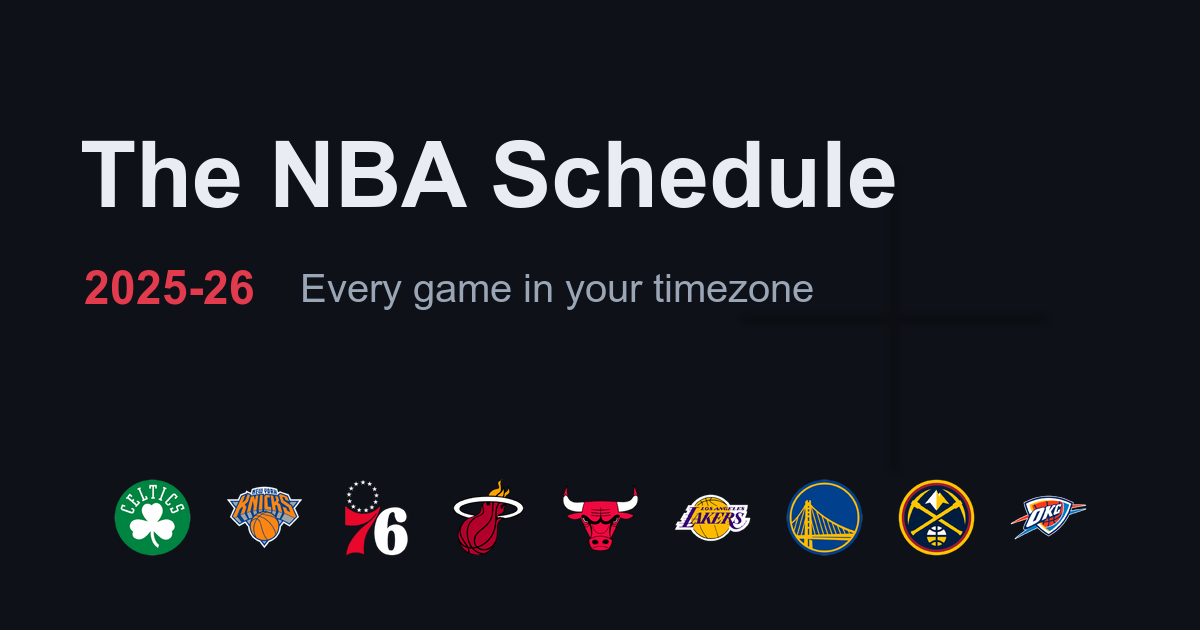
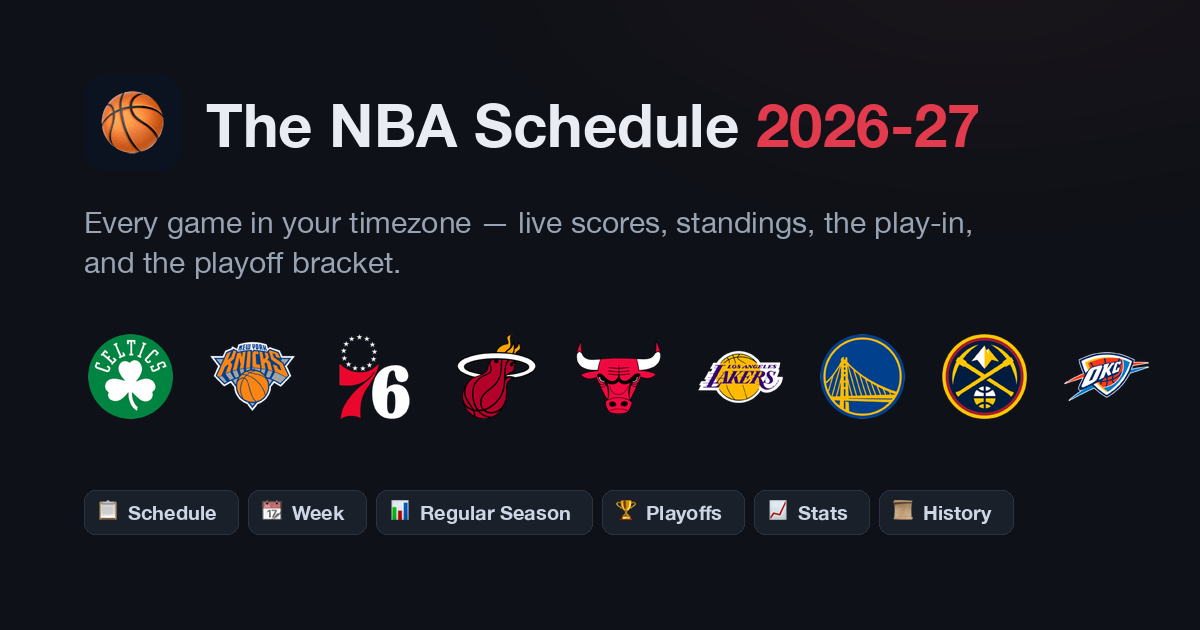
Update the social share card to 2026-27, generated deterministically
public/og-image.png still advertised 2025-26. The new card carries the
season in the accent red, the emoji-basketball mark from the family icon
recipe, and the same nine team logos. It is now rendered by
scripts/make-og-image.py (Pillow) rather than a hand screenshot — the
NFL sibling's serve-and-screenshot recipe depends on browser window size
and per-site zoom, both of which proved unreproducible; the script
regenerates the exact 1200x630 with one season-string change per year.

diff --git a/scripts/make-og-image.py b/scripts/make-og-image.py
@@ -1,0 +1,104 @@
+#!/usr/bin/env python3
+"""Render public/og-image.png (1200x630) for the-nba-schedule, matching
+scripts/og-image.html: dark card, basketball mark, title + red season,
+tagline, nine team logos, view pills."""
+from PIL import Image, ImageDraw, ImageFont, ImageFilter
+import math
+
+W, H = 1200, 630
+BG = (14, 17, 23)          # --bg #0e1117
+GLOW = (42, 26, 32)        # #2a1a20
+ACCENT = (226, 59, 78)     # --accent #e23b4e
+TEXT = (233, 237, 243)     # #e9edf3
+MUTED = (152, 163, 179)    # #98a3b3
+PILL_BG = (26, 32, 41)     # #1a2029
+PILL_BORDER = (42, 51, 65) # #2a3341
+PILL_TEXT = (205, 214, 228)
+MARK_BG = (11, 18, 32)     # #0b1220
+
+img = Image.new('RGB', (W, H), BG)
+
+# Radial glow at top-right (radial-gradient(1100px 620px at 82% -14%)).
+glow = Image.new('L', (W, H), 0)
+gd = ImageDraw.Draw(glow)
+cx, cy, rx, ry = int(0.82 * W), int(-0.14 * H), 550, 310
+for i in range(60, 0, -1):
+    a = int(140 * (1 - i / 60))
+    gd.ellipse([cx - rx * i / 60, cy - ry * i / 60, cx + rx * i / 60, cy + ry * i / 60], fill=a)
+glow = glow.filter(ImageFilter.GaussianBlur(40))
+img = Image.composite(Image.new('RGB', (W, H), GLOW), img, glow)
+
+d = ImageDraw.Draw(img)
+
+def font(size, bold=True):
+    # HelveticaNeue.ttc: index 1 = Bold in most macOS builds; fall back scanning.
+    for idx in ([1, 8, 0] if bold else [0]):
+        try:
+            f = ImageFont.truetype('/System/Library/Fonts/HelveticaNeue.ttc', size, index=idx)
+            name = f.getname()
+            if not bold or 'Bold' in name[1] or idx == 0:
+                return f
+        except Exception:
+            continue
+    return ImageFont.truetype('/System/Library/Fonts/Helvetica.ttc', size)
+
+PAD = 84
+# Mark: rounded square with the emoji basketball — the family's icon language
+# (docs/ICONS.md: the sport's ball on the app's dark background).
+mx, my, ms = PAD, 74, 96
+d.rounded_rectangle([mx, my, mx + ms, my + ms], radius=22, fill=MARK_BG)
+try:
+    f_ball = ImageFont.truetype('/System/Library/Fonts/Apple Color Emoji.ttc', 64)
+    bb = d.textbbox((0, 0), '🏀', font=f_ball, embedded_color=True)
+    d.text((mx + (ms - (bb[2] - bb[0])) // 2 - bb[0], my + (ms - (bb[3] - bb[1])) // 2 - bb[1]),
+           '🏀', font=f_ball, embedded_color=True)
+except Exception:
+    bcx, bcy, br = mx + ms // 2, my + ms // 2, 31
+    for wdt in range(3):
+        d.ellipse([bcx - br - wdt, bcy - br - wdt, bcx + br + wdt, bcy + br + wdt], outline=ACCENT)
+
+# Title.
+f_title = font(60)
+tx = mx + ms + 26
+ty = my + 14
+t1 = 'The NBA Schedule '
+d.text((tx, ty), t1, font=f_title, fill=TEXT)
+w1 = d.textlength(t1, font=f_title)
+d.text((tx + w1, ty), '2026-27', font=f_title, fill=ACCENT)
+
+# Tagline.
+f_tag = font(30, bold=False)
+d.text((PAD, my + ms + 34), 'Every game in your timezone — live scores, standings, the play-in,', font=f_tag, fill=MUTED)
+d.text((PAD, my + ms + 74), 'and the playoff bracket.', font=f_tag, fill=MUTED)
+
+# Logos row.
+teams = ['bos', 'ny', 'phi', 'mia', 'chi', 'lal', 'gs', 'den', 'okc']
+ls, gap = 92, 30
+lx, ly = PAD, 330
+for t in teams:
+    logo = Image.open(f'public/logos/{t}-dark.png').convert('RGBA')
+    logo.thumbnail((ls, ls), Image.LANCZOS)
+    ox = lx + (ls - logo.width) // 2
+    oy = ly + (ls - logo.height) // 2
+    img.paste(logo, (ox, oy), logo)
+    lx += ls + gap
+
+# Pills.
+f_pill = font(20)
+px, py = PAD, 490
+for label in ['📋 Schedule', '📆 Week', '📊 Regular Season', '🏆 Playoffs', '📈 Stats', '📜 History']:
+    # Strip the emoji for measuring/drawing with Helvetica; draw emoji separately.
+    emoji, txt = label.split(' ', 1)
+    tw = d.textlength(txt, font=f_pill)
+    pw = int(tw) + 66
+    d.rounded_rectangle([px, py, px + pw, py + 44], radius=11, fill=PILL_BG, outline=PILL_BORDER)
+    d.text((px + 44, py + 10), txt, font=f_pill, fill=PILL_TEXT)
+    try:
+        f_emoji = ImageFont.truetype('/System/Library/Fonts/Apple Color Emoji.ttc', 20)
+        d.text((px + 14, py + 10), emoji, font=f_emoji, embedded_color=True)
+    except Exception:
+        pass
+    px += pw + 10
+
+img.save('public/og-image.png', 'PNG')
+print('wrote public/og-image.png', img.size)

diff --git a/scripts/make-og-image.md b/scripts/make-og-image.md
@@ -1,0 +1,15 @@
+# Regenerating the social share image (`public/og-image.png`, 1200×630)
+
+```bash
+python3 scripts/make-og-image.py   # from the repo root; needs Pillow
+```
+
+The card is drawn programmatically (dark brand background, the emoji-basketball
+mark per the family icon recipe, the season in the accent red, nine team logos
+from `public/logos/`, and the view pills). It regenerates byte-stable output —
+update the season string in the script at each rollover and re-run.
+
+This deviates from the NFL sibling's author-HTML-and-screenshot recipe on
+purpose: a screenshot depends on the browser's window size and per-site zoom
+(both fought back hard on 2026-08-13), while Pillow renders the exact 1200×630
+deterministically.

diff --git a/NEWS.md b/NEWS.md
@@ -6,6 +6,11 @@ data/source updates, deployment). Newest day on top.
 
 ## 2026-08-13
 
+- **The social share card says 2026-27.** `public/og-image.png` still advertised
+  2025-26; it now carries the new season, the emoji-basketball mark from the
+  family icon recipe, and the same nine team logos. It is generated
+  deterministically by `scripts/make-og-image.py` (see
+  `scripts/make-og-image.md`) — update the season string there at each rollover.
 - **Pre-game badge and warmed polling, at parity with the WNBA viewer.** In the
   15 minutes before a scheduled tip the card now shows a "Pre-game" hint (ESPN
   flips a game to live only at the actual jump, which trails the listed time by
